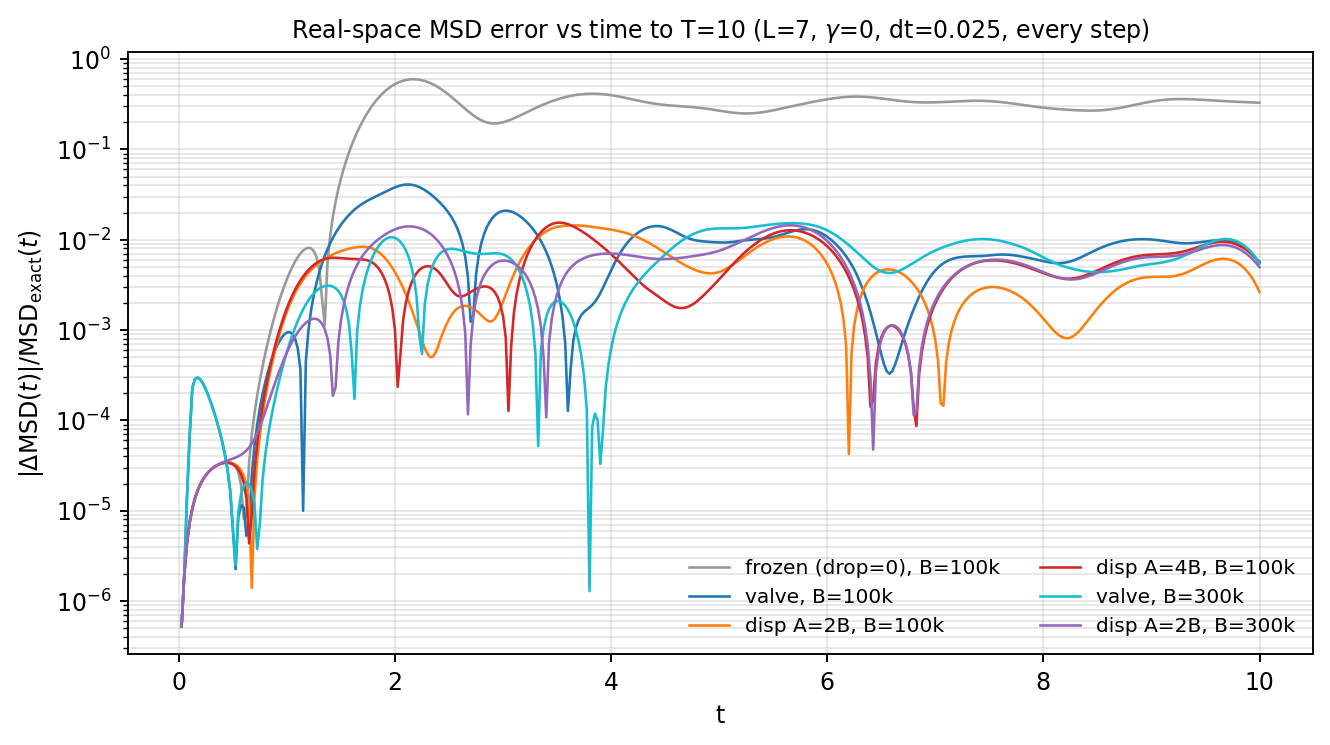
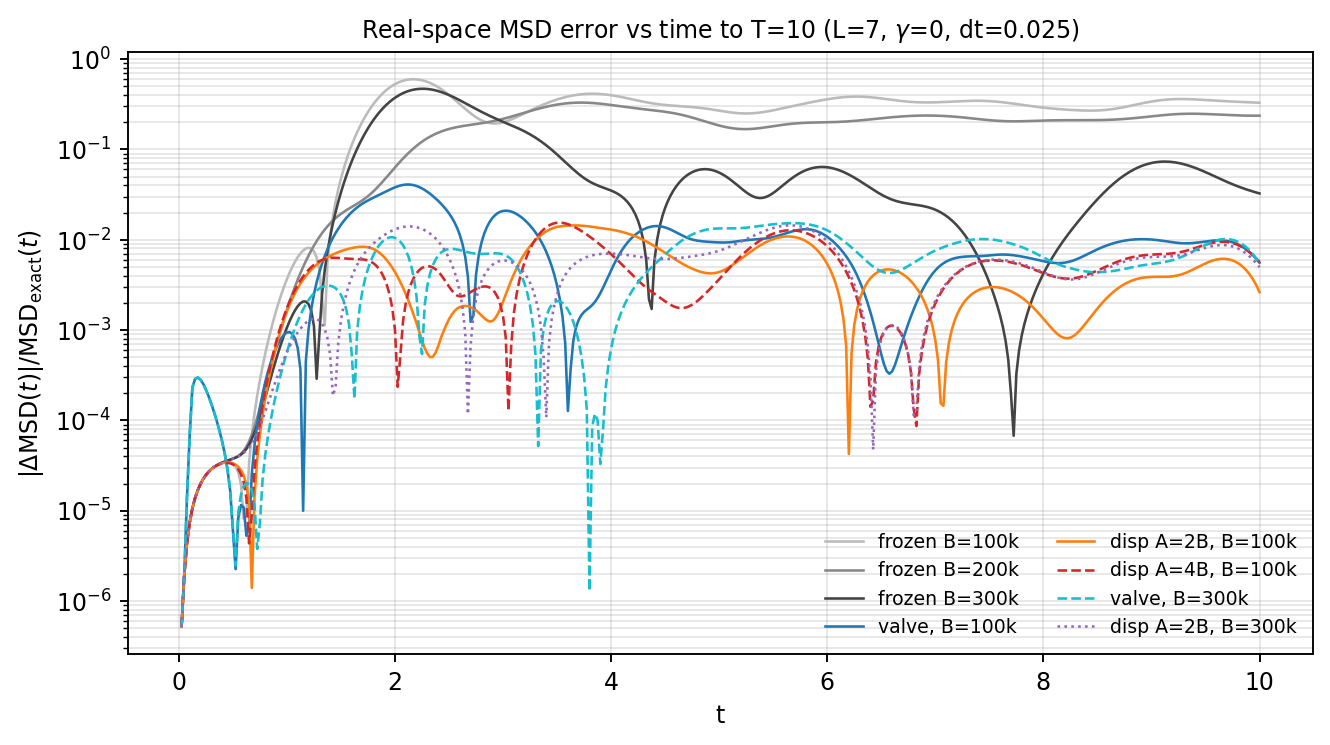
autotune(orbit-compare): frozen B=200k/300k at T=10 - size cannot substitute for adaptivity

diff --git a/docs/autotune/2026-07-03-orbit-compare/log.md b/docs/autotune/2026-07-03-orbit-compare/log.md
@@ -993,3 +993,18 @@ faster. A=4B adds nothing over A=2B at T=10.
 Practical: for long-horizon runs at tight memory, displacement A=2B is the
 best configuration measured; the valve's weakness is specifically the
 transient regime around the equilibration time.
+
+## Frozen-basis B scan at T=10 (2026-07-05)
+
+  frozen B=100k: median 3.17e-1  max 5.98e-1   53s  238MB
+  frozen B=200k: median 2.10e-1  max 3.30e-1  111s  296MB
+  frozen B=300k: median 3.87e-2  max 4.69e-1  180s  397MB
+Raw curves (msd_raw_T10.png): B=100k undershoots the plateau (~2.4-2.9),
+B=200k lands ~3.0-3.3, B=300k OVERSHOOTS through the wrap transient (peak
+5.6 at t~2.3!) then wanders around ~3.7-4.1 with persistent oscillations
+(max rel still 0.47; long-time median 3.9e-2 = 5-10x above any adaptive
+scheme at a THIRD of the basis budget of valve/300k... equal budget).
+Frozen error is NOT monotone-decreasing in B in the transient (300k's max
+~ 100k's), and no frozen size equilibrates to the correct plateau cleanly.
+Adaptivity - even the valve's ~1e2 swaps/step - is qualitatively load-
+bearing; basis size cannot substitute for it.